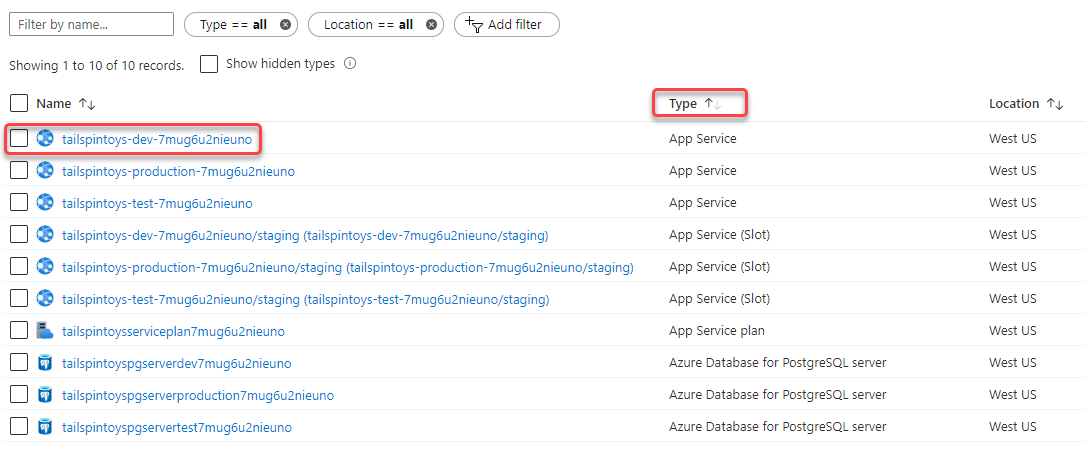
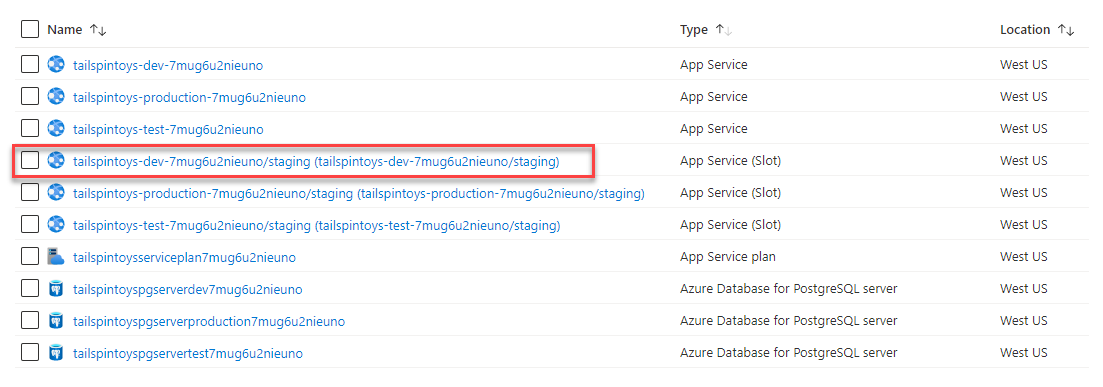
updated to include staging images and text for #80

diff --git a/Hands-on lab/HOL step-by-step - Continuous delivery in Azure DevOps.md b/Hands-on lab/HOL step-by-step - Continuous delivery in Azure DevOps.md
@@ -1092,7 +1092,7 @@ In this exercise, you will modify the existing pipeline to include a basic relea
     
 14. **Congratulations!** You have just created your first multistage pipeline!  Now, let's verify your deployment.   
 
-    Using **Azure Portal**, navigate to the resource group you created earlier to view your app services in this resource group .   Sort by **Type** Select the development app service:
+    Using **Azure Portal**, navigate to the resource group you created earlier to view your app services in this resource group .   Sort by **Type** Select the development app service staging slot:
 
     ![Screen showing Azure Portal provisioned assets in lab resource group , the dev Web App Service and sorted type column header are highlighted.](images/stepbystep/media/image1023.png "Azure Portal Resources")  
 
